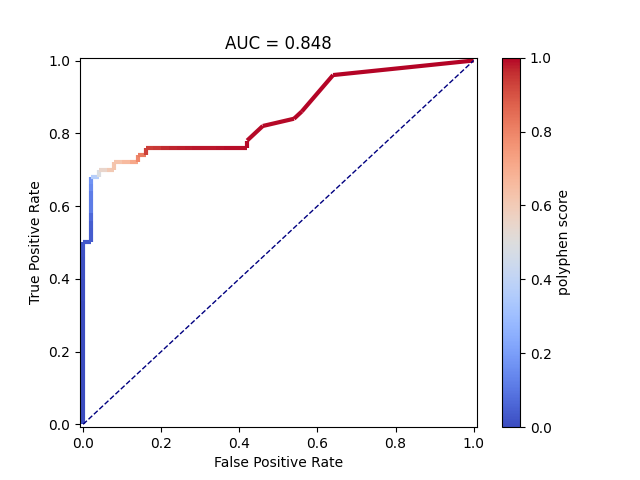
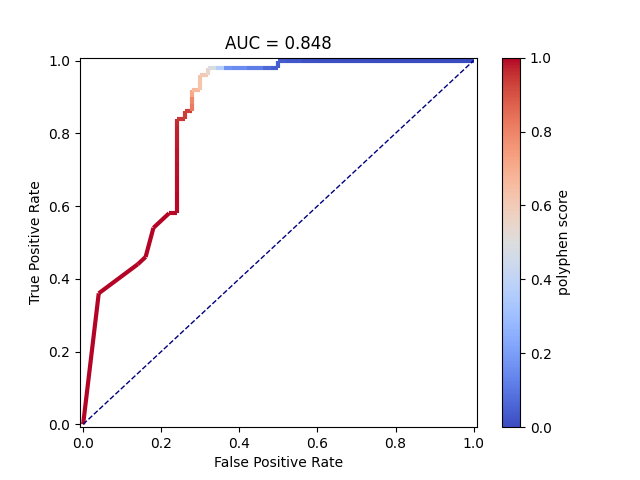
fix roc plot

Changed region(s): [[0.125, 0.1875, 0.5, 0.875], [0.2812, 0.125, 0.75, 0.25]]

diff --git a/skeleton_script_create_roc_plot.py b/skeleton_script_create_roc_plot.py
@@ -169,8 +169,8 @@ def calculate_coordinates(predictor_score_dict, benchmark_dict, out_filepath):
     # Use the following if-statement and replace the question mark with the type of the predictor.
     # It will put the ROC curve at the correct side of the diagonal line.
 
-    if type_predictor == "sift" :
-        sorted_score_hgvs_pairs = sorted(score_hgvs_pairs, reverse=True)
+    if type_predictor == "polyphen":
+        sorted_score_hgvs_pairs = sorted(score_hgvs_pairs, reverse = True)
     else:
         sorted_score_hgvs_pairs = sorted(score_hgvs_pairs)
 
@@ -222,8 +222,8 @@ def calculate_coordinates(predictor_score_dict, benchmark_dict, out_filepath):
         # Check if the current index i is a breakpoint (i.e., before a score change)
         # print(index_prebreakpoint_score)
         if i in index_prebreakpoint_score:
-            TPR = num_fp / total_n
-            FPR = num_tp / total_p
+            FPR = num_fp / total_n
+            TPR = num_tp / total_p
 
             tpr.append(TPR)
             fpr.append(FPR)
